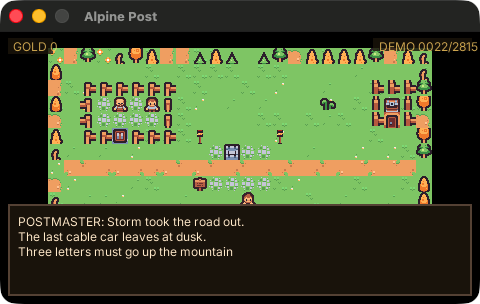
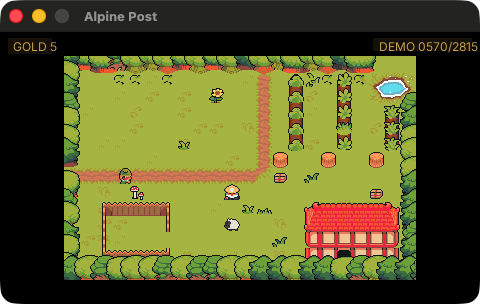
docs: macOS screenshots of the repainted game
The attract demo at the farm, the postmaster's first line with his
portrait, and the controls panel, captured from the desktop host window.

diff --git a/README.md b/README.md
@@ -13,12 +13,12 @@ lighthouse at the top. The same bundle runs on the desktop host, the web
 | ![Hamlet](tests/goldens/journey.8.png) | ![General store](tests/goldens/journey.335.png) | ![THE END](tests/goldens/journey.2812.png) |
 | The hamlet at the start | The general store | The lighthouse, THE END |
 
-On the macOS desktop host (`bun run desktop`; Metal, Apple M5 Pro): the
-attract demo, and the controls panel opened from the keyboard.
+On the macOS desktop host (`bun run desktop`; Metal, Apple M5 Pro):
 
-| | |
-| --- | --- |
-| ![Attract demo on macOS](docs/screenshots/macos-attract.png) | ![Controls on macOS](docs/screenshots/macos-help.png) |
+| | | |
+| --- | --- | --- |
+| ![Attract demo on macOS](docs/screenshots/macos-attract.png) | ![Dialog on macOS](docs/screenshots/macos-dialog.png) | ![Controls on macOS](docs/screenshots/macos-help.png) |
+| The attract demo at the farm | The postmaster's first line | The controls panel |
 
 ## The route
 
